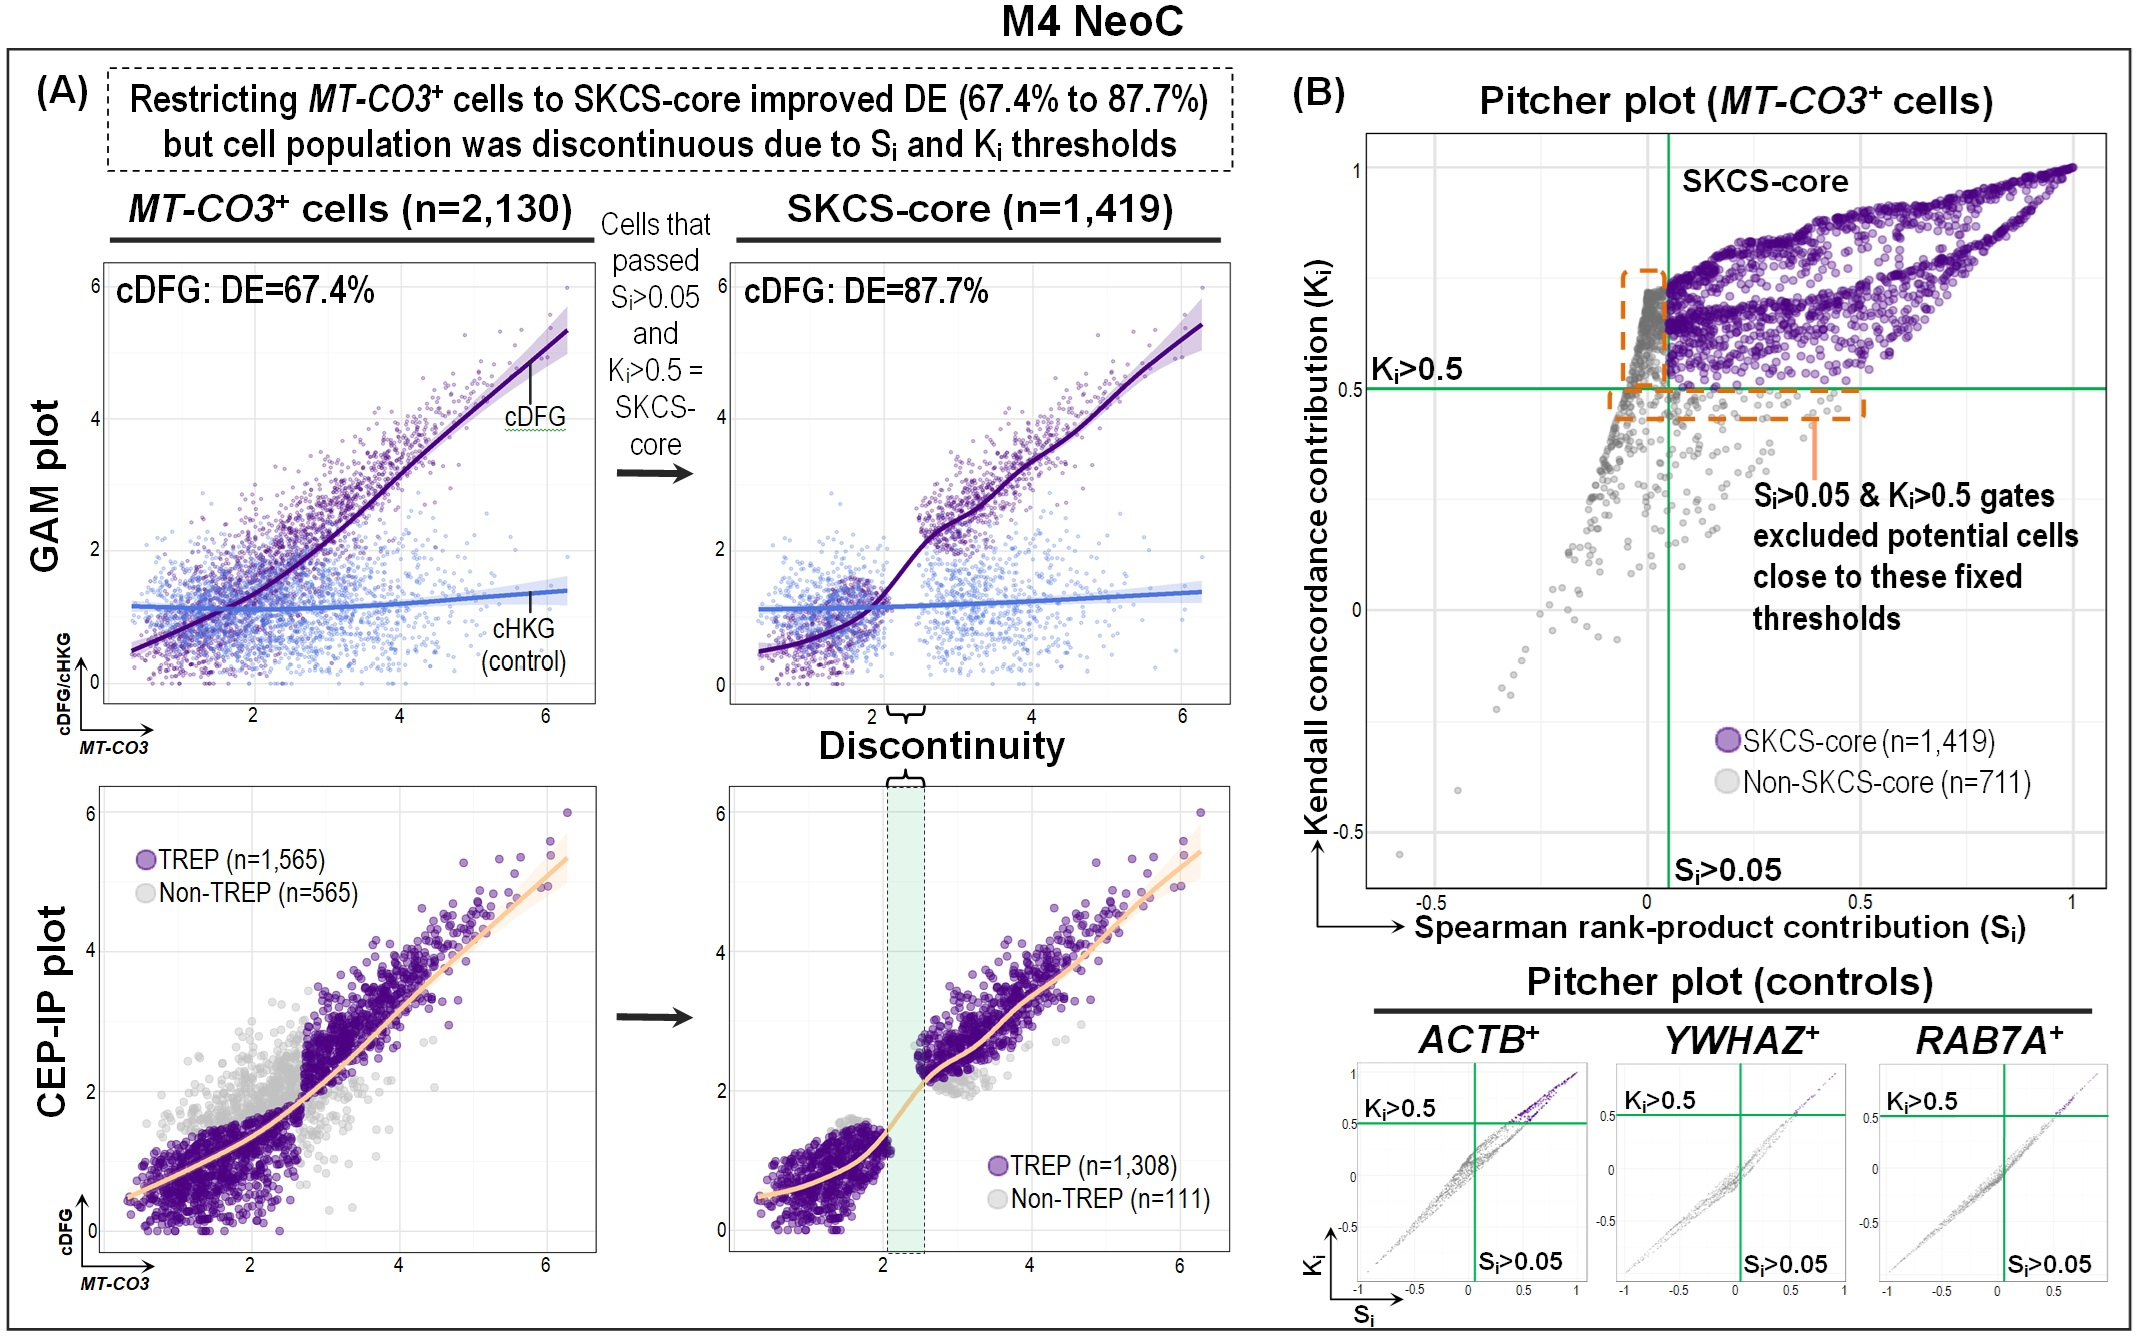
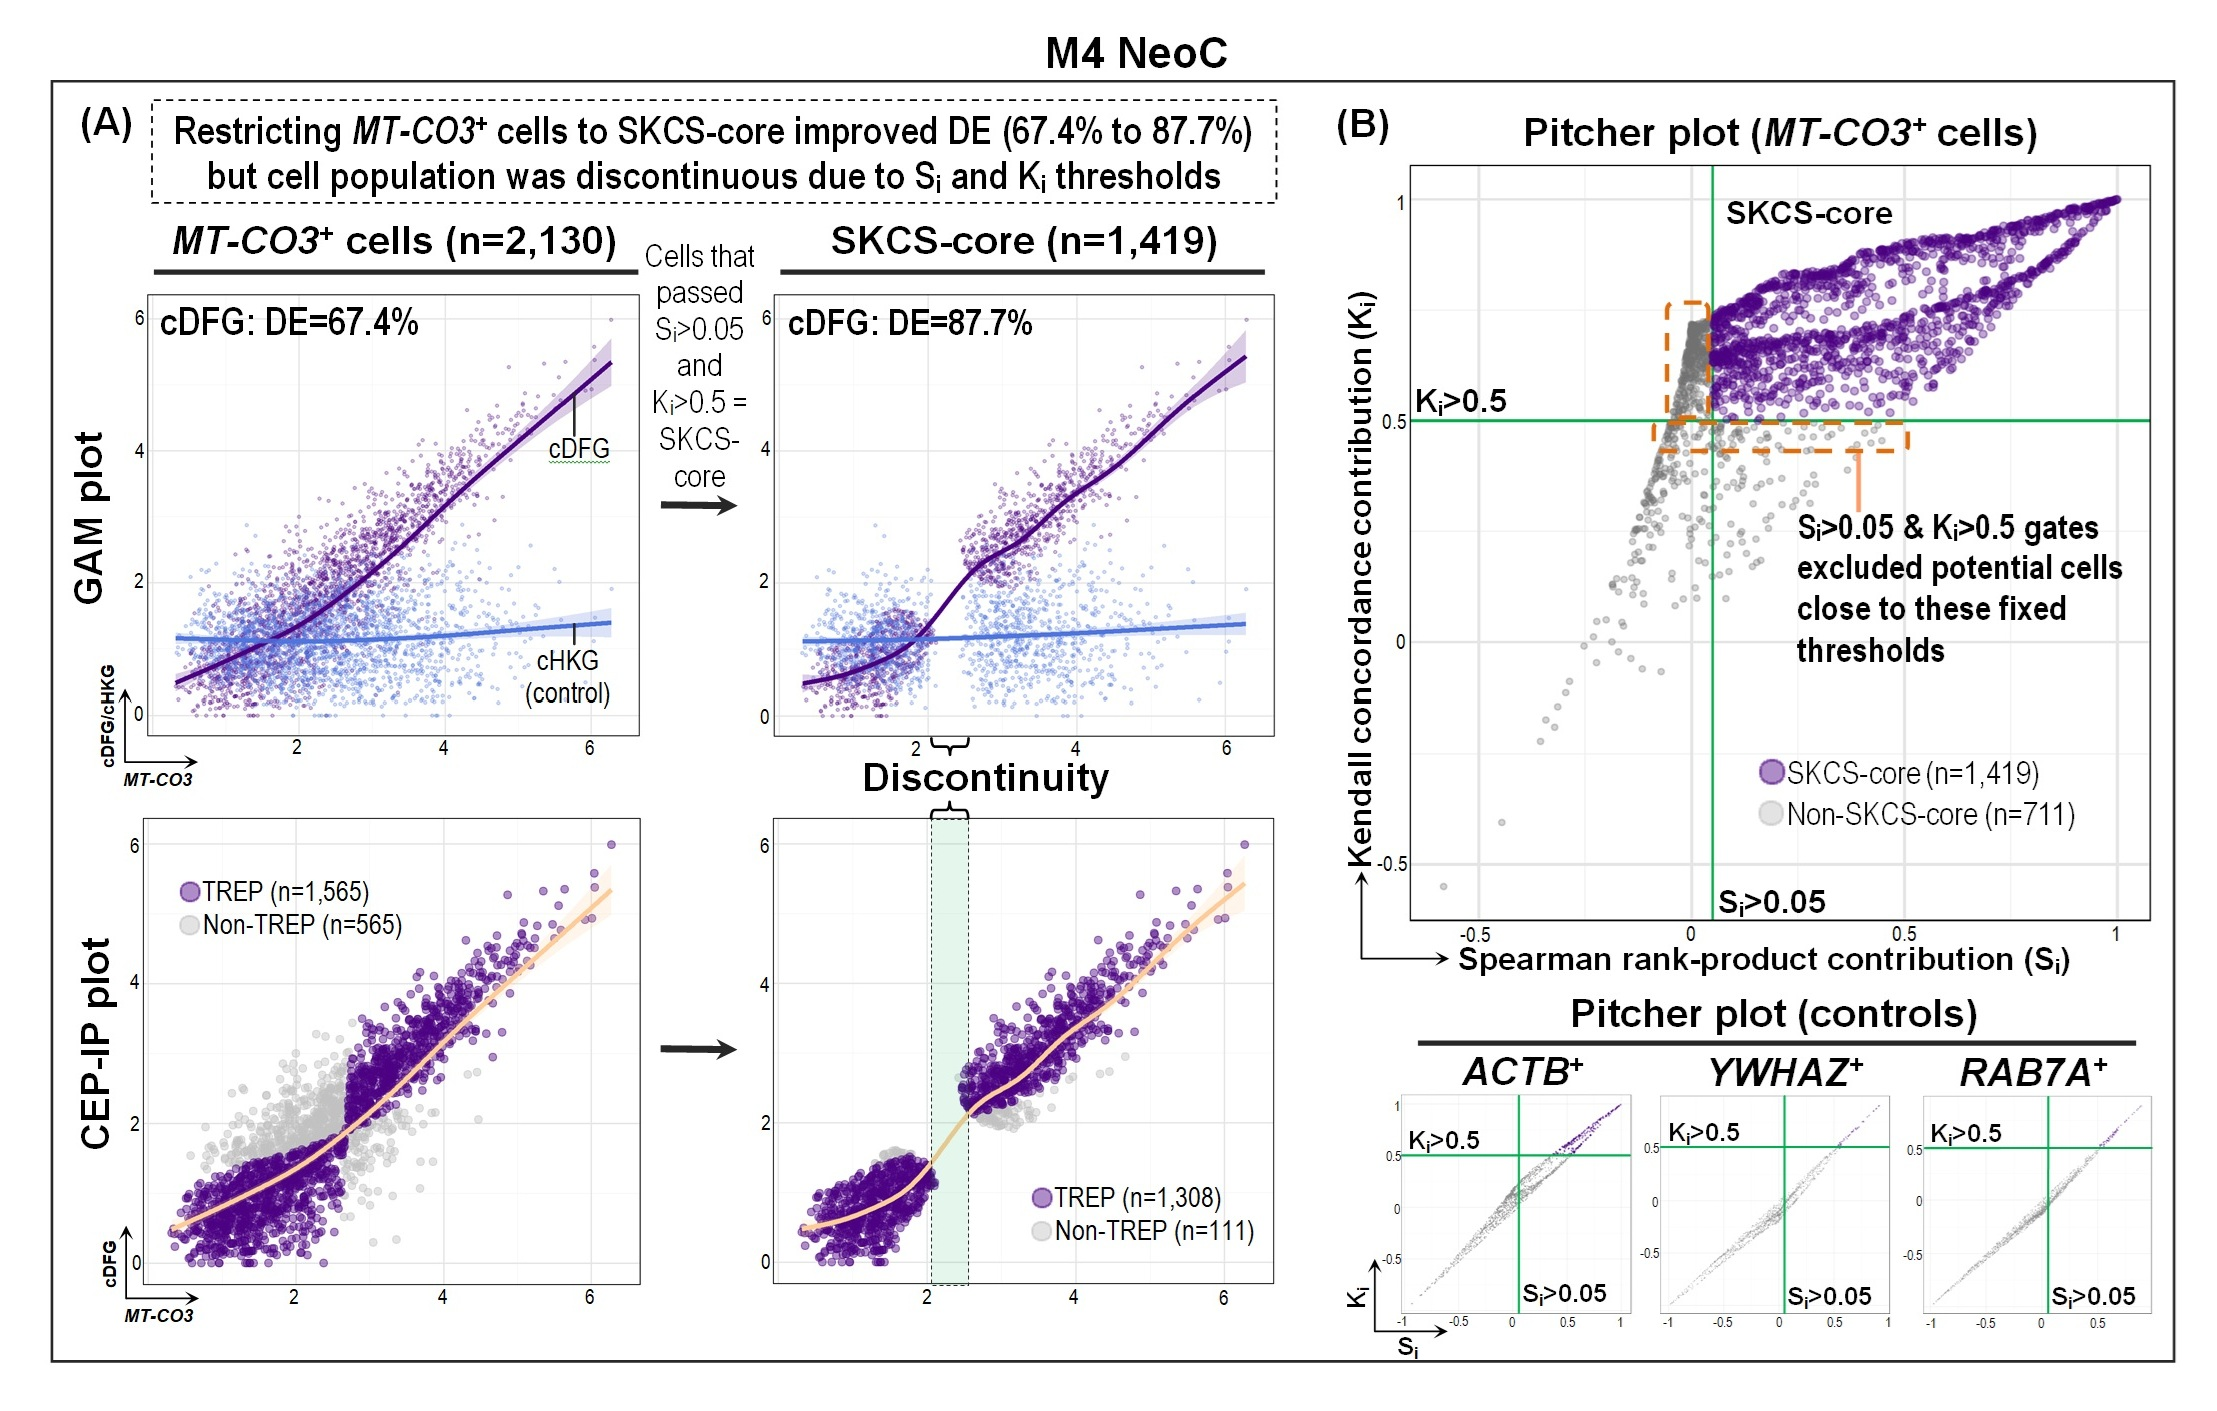
README: title, figure spacing, lists, numbered steps

diff --git a/README.md b/README.md
@@ -1,6 +1,6 @@
 <div align="center">
 
-# CEP-IP/CMRF in SEA-AD Microglia: A Mitochondrial Co-expression Module Linked to Cognition
+# CEP-IP with CMRF in SEA-AD Microglia: A Mitochondrial Co-expression Module Linked to Cognition
 
 ![Project Status](https://img.shields.io/badge/status-active-brightgreen?logo=check&logoColor=white)
 [![Project Page](https://img.shields.io/badge/Code-GitHub-4E81BE?logo=github&logoColor=white)](https://github.com/kahkengwong/CEP-IP_and_CMRF_in_SEA-AD)
@@ -78,23 +78,39 @@ Single-nucleus RNA-seq (snRNA-seq) studies of Alzheimer's disease (AD) routinely
 ## Methods and Key Results
 The five figures below follow the main steps of the analysis, using M4 NeoC as the example where one arm is shown.
 
-<p align="center"><img src="figures/Figure_1_Si_Ki_creates_discontinuity.jpg" width="900" alt="Figure 1. The S<sub>i</sub> and K<sub>i</sub> gates create a discontinuity."></p>
+<p align="center"><img src="figures/Figure_1_Si_Ki_creates_discontinuity.jpg" width="900" alt="Figure 1"></p>
 
 **Figure 1. The S<sub>i</sub> and K<sub>i</sub> gates create a discontinuity.** The S<sub>i</sub> and K<sub>i</sub> gates (S<sub>i</sub> >0.05 and K<sub>i</sub> >0.5) identified the SKCS-core cells and improved the deviance explained (DE; from 67.4% to 87.7% in M4 NeoC), but created a discontinuity along MT-CO3 that is also visible in the pitcher plot (K<sub>i</sub> against S<sub>i</sub>).
 
-<p align="center"><img src="figures/Figure_2_Transform_to_copula_space.jpg" width="900" alt="Figure 2. Transformation into copula space."></p>
+<br>
+<br>
+
+
+<p align="center"><img src="figures/Figure_2_Transform_to_copula_space.jpg" width="900" alt="Figure 2"></p>
 
 **Figure 2. Transformation into copula space.** The expression space (cDFG against MT-CO3) and the score space (K<sub>i</sub> against S<sub>i</sub>) are transformed into copula space by ranking each axis and dividing by n + 1: v against u for the expression values, and v<sub>SK</sub> against u<sub>SK</sub> for the S<sub>i</sub> and K<sub>i</sub> values.
 
-<p align="center"><img src="figures/Figure_3_CMRF_reclaims_cells.jpg" width="900" alt="Figure 3. CMRF reclaims monotone-coherent cells."></p>
+<br>
+<br>
+
+
+<p align="center"><img src="figures/Figure_3_CMRF_reclaims_cells.jpg" width="900" alt="Figure 3"></p>
 
 **Figure 3. CMRF reclaims monotone-coherent cells.** The copula monotone recovery filter (CMRF) reclaimed monotone-coherent cells that the fixed S<sub>i</sub> and K<sub>i</sub> gates had excluded. The SKCS-core cells calibrated the spline, two bands (&delta;<sub>base</sub> and &delta;<sub>adapt</sub>) identified the candidates, and the RSk-fCV gate tested them. Purple diamonds are the Recovered cells.
 
-<p align="center"><img src="figures/Figure_4_Pitcher_plots_QC_of_CMRF.jpg" width="900" alt="Figure 4. Pitcher plots as a quality check of CMRF."></p>
+<br>
+<br>
+
+
+<p align="center"><img src="figures/Figure_4_Pitcher_plots_QC_of_CMRF.jpg" width="900" alt="Figure 4"></p>
 
 **Figure 4. Pitcher plots as a quality check of CMRF.** Pitcher plots in copula space for each arm and region set. The Recovered cells (purple) bridge the post-IP (green) and pre-IP (amber) branches.
 
-<p align="center"><img src="figures/Figure_5_Applications.jpg" width="900" alt="Figure 5. Applications of Module post-IP%."></p>
+<br>
+<br>
+
+
+<p align="center"><img src="figures/Figure_5_Applications.jpg" width="900" alt="Figure 5"></p>
 
 **Figure 5. Applications of Module post-IP%.** Module post-IP% was computed for each arm (A) and used in downstream applications, such as its association with cognition and pathology outcomes in the SEA-AD donors, where it was benchmarked against the competitors of CMRF (B).
 
@@ -104,15 +120,15 @@ The five figures below follow the main steps of the analysis, using M4 NeoC as t
 | Path | Contents |
 |---|---|
 | `scripts/Python/` | The 23 Python scripts: Parts 1 to 8 and the Part 12 extraction step (`Part12_02_Extract.py`). |
-| `scripts/R/` | The R scripts of Parts 9 to 13 and `Fig17_Summary_code.r`; the shared arm table and settings (`CEP_arms.R`, `R_config.R`, `R_config_HKG8.R`); the Part 12 settings (`Part12_01_config.json`, `Part12_Fig19_config.json`) and pre-specified readings (`Part12_Preset_Readings.md`, `Part12_Preset_Readings_Battery5.md`). |
+| `scripts/R/` | <ul><li>The R scripts of Parts 9 to 13 and `Fig17_Summary_code.r`</li><li>The shared arm table and settings: `CEP_arms.R`, `R_config.R`, `R_config_HKG8.R`</li><li>The Part 12 settings: `Part12_01_config.json`, `Part12_Fig19_config.json`</li><li>The pre-specified readings of the Batteries: `Part12_Preset_Readings.md`, `Part12_Preset_Readings_Battery5.md`</li></ul> |
 | `Containerfile` | Recipe for the container image (R 4.6.1, Python 3.13.14, all packages). Works with Podman or Docker. |
 | `seaad-setup.sh` | Run once inside the container: copies the settings into the data folder and checks the inputs. |
 | `README_container.md` | Container build, inputs, and the full run order. |
 | `renv.lock` | Exact R package versions (R 4.6.1, Bioconductor 3.23; 280 packages). |
 | `requirements-python.txt` | Exact Python package versions (Python 3.13.14). |
-| `verification/` | `run_rest.sh` and `run_python.sh` (run the R and the Python scripts in order from a named step), `compare_rerun.py`, `compare_python.py` and `compare_gamdata.py`, and the comparisons of the container reruns with the original results (`compare_all_*` for R; `compare_python_*` and `compare_gamdata_log.txt` for Python). |
+| `verification/` | <ul><li>`run_rest.sh` and `run_python.sh`: run the R and the Python scripts in order from a named step</li><li>`compare_rerun.py`, `compare_python.py`, and `compare_gamdata.py`: compare a rerun with the original results</li><li>The comparisons of the container reruns with the original results: `compare_all_*` for R; `compare_python_*` and `compare_gamdata_log.txt` for Python</li></ul> |
 | `figures/` | Figures 1 to 5 of the Methods and Key Results section. |
-| `logs/` | Console logs of the container reruns (`container_rerun/`, R Part 9 onward and the Part 12 Python step; `container_rerun_python/`, Python Parts 1 to 8), logs of the original runs from Part 9 onward (`original_R/`), and logs of the original Python Parts 1 to 8 (`original_python/`). `logs/README.md` describes each folder and maps the Python logs to their scripts. |
+| `logs/` | <ul><li>`container_rerun/`: console logs of the container rerun of R Part 9 onward and the Part 12 Python step</li><li>`container_rerun_python/`: console logs of the container rerun of Python Parts 1 to 8</li><li>`original_R/`: logs of the original runs from Part 9 onward</li><li>`original_python/`: logs of the original runs of Python Parts 1 to 8</li><li>`logs/README.md` describes each folder and maps the Python logs to their scripts</li></ul> |
 
 ---
 
@@ -190,7 +206,7 @@ The analysis runs in a container that holds R 4.6.1, Python 3.13.14 and every pa
 ### 1. Get the data
 | Source | Files | Needed for |
 |---|---|---|
-| [HuggingFace](https://huggingface.co/datasets/kahkengwong/CEP-IP_and_CMRF_in_SEA-AD) | `R_export_CP10K/` (Part 8 export of the four arms, about 14 GB), the Part 2 donor tables (`NeoC_S5b_donor_clinical.csv`, `NonNeoC_S5b_donor_clinical.csv`), and `Part7_DecontX/decontX_contamination_all.csv` | R Parts 9 to 13 |
+| [HuggingFace](https://huggingface.co/datasets/kahkengwong/CEP-IP_and_CMRF_in_SEA-AD) | <ul><li>`R_export_CP10K/`: Part 8 export of the four arms, about 14 GB</li><li>The Part 2 donor tables: `NeoC_S5b_donor_clinical.csv`, `NonNeoC_S5b_donor_clinical.csv`</li><li>`Part7_DecontX/decontX_contamination_all.csv`</li></ul> | R Parts 9 to 13 |
 | [SEA-AD portal](https://brain-map.org/consortia/sea-ad/our-data) | Immune h5ad (2026-06-22 release), neuropathology and CPS workbooks | Python Parts 1 to 8, Part 12 |
 | [GEO GSE148822](https://www.ncbi.nlm.nih.gov/geo/query/acc.cgi?acc=GSE148822) | Gerrits deposit, placed in `Gerrits/` with the series matrix in `Gerrits/Metadata/` | Part 12 (Battery 1) |
 | [Zenodo](https://zenodo.org/records/23445742) | Supplementary Tables | The Part 10g follow-up and `Fig17_Summary_code.r` |
@@ -198,29 +214,35 @@ The analysis runs in a container that holds R 4.6.1, Python 3.13.14 and every pa
 Place them in one folder (the data folder), keeping the folder names above.
 
 ### 2. Build the container
-Download this repository (green "<> Code" button, then "Download ZIP") and extract it. From the extracted folder:
+i) Download this repository (green "<> Code" button, then "Download ZIP") and extract it.
+
+ii) From the extracted folder, build the image:
 ```bash
 podman build -t seaad-cepip -f Containerfile .
 ```
 The first build takes about one to two hours, mostly to compile the Bioconductor packages and monocle3. Docker accepts the same commands with `docker` in place of `podman`.
 
-Instead of building it, the image can be loaded from the archived copy on Zenodo (`seaad-cepip_image.tar.gz`, 1.7 GB, https://doi.org/10.5281/zenodo.23446228), which holds the same software and scripts:
+iii) Alternatively, instead of building it, the image can be loaded from the archived copy on Zenodo (`seaad-cepip_image.tar.gz`, 1.7 GB, https://doi.org/10.5281/zenodo.23446228), which holds the same software and scripts:
 ```bash
 podman load -i seaad-cepip_image.tar.gz
 ```
 This gives the image `localhost/seaad-cepip`; Docker accepts `docker load -i` in the same way.
 
 ### 3. Start the container and check the inputs
+i) Start the container with the data folder mounted at `/data`:
 ```bash
 podman run --rm -it --shm-size=16g -v /path/to/data_folder:/data:Z seaad-cepip
-seaad-setup
 ```
 `--shm-size=16g` gives the container enough shared memory for Part 7 (DecontX), whose worker processes share the count matrix. Without it, Part 7 stops with a bus error.
 
+ii) Inside the container, run once:
+```bash
+seaad-setup
+```
 `seaad-setup` copies the settings files and the Part 12 scripts into the data folder and lists every input as found or missing.
 
 ### 4. Run the scripts
-From `/data`, in the order given in `README_container.md`. For example:
+i) Run each script from `/data`, in the order given in `README_container.md`. For example:
 ```bash
 Rscript -e 'source("/opt/seaad/R/Part9_CP10K_QC_GAM_code.r")'
 python Part12_rerun/Part12_02_Extract.py
@@ -228,7 +250,10 @@ Rscript -e 'source("Part12_rerun/Part12_04_Labels.r")'
 ```
 Each script writes its outputs and a log in its own folder.
 
-`verification/run_rest.sh` runs the scripts from a given one to `Fig17_Summary_code.r` in order, saves each console log in `console_logs/`, and then runs the comparison. It was used for the reproduction check below; the comparison step needs the original results mounted at `/win`. To use it, copy `run_rest.sh` and `compare_rerun.py` into the data folder and run, for example, `bash /data/run_rest.sh Part10h_CP10K_Prognosis_code`. `verification/run_python.sh` does the same for Python Parts 1 to 8 (Part 8 once per arm) and then runs `compare_python.py` against the original results mounted at `/ref`.
+ii) Alternatively, run a series of scripts with the run scripts in `verification/`, which were used for the reproduction check below:
+- `run_rest.sh` runs the R scripts from a given one to `Fig17_Summary_code.r` in order, saves each console log in `console_logs/`, and then runs the comparison with the original results mounted at `/win`.
+- `run_python.sh` does the same for Python Parts 1 to 8 (Part 8 once per arm), and then runs `compare_python.py` with the original results mounted at `/ref`.
+- To use them, copy the run script and its comparison script into the data folder and run, for example, `bash /data/run_rest.sh Part10h_CP10K_Prognosis_code`.
 
 ### Without the container (optional)
 - **R:** run `renv::restore()` in the repository folder to install the package versions in `renv.lock`. renv uses an isolated library and does not change the existing R setup.
@@ -245,8 +270,8 @@ The original analysis ran R on Windows 11 and Python on Fedora 44. The whole pip
 - **Result, Python Parts 1 to 8:**
   - All 25 steps ran to completion (Part 8 once per arm), in about three hours.
   - The 54 count matrices and cell and gene lists exported by Part 8 (the four arms and the full data of both region sets) are identical byte for byte to the original export used by the R analyses.
-  - Of the 9,262 tables found in both runs, 9,211 are the same. A further 40 Part 8 `gam_data` tables are the same in every shared column; the original files hold 1 or 10 more gene columns, added later by R Part 9.
-  - Nine Part 5 differential expression tables differ in one to three genes each: the paired p-values of TAOK3, LINC02391, and NBAS changed slightly, with the adjusted p-values of the genes next to them in rank, and the log2FC of five genes changed in the fourth decimal. No gene crosses the 0.05 cutoff.
+  - Of the 9,262 tables found in both runs, 9,211 are the same. A further 40 Part 8 `gam_data` tables match in every shared column; the original files hold 1 or 10 more gene columns, added later by R Part 9.
+  - Nine Part 5 differential expression tables differ in one to three genes each: the paired p-values of *TAOK3*, *LINC02391*, and *NBAS* shifted slightly, and the log2FC of five genes changed in the fourth decimal. No gene crosses the 0.05 cutoff.
   - Two Part 8 record files differ only in how a logical value is written (`False` against `FALSE`).
   - The reference was the Windows copy of the original results, which the R analyses used. Tables found only there come from scripts that are not part of this deposit.
 
@@ -268,7 +293,9 @@ The original analysis ran R on Windows 11 and Python on Fedora 44. The whole pip
   - the settings version recorded in the Part 12 tables;
   - dates, times, and folder paths.
 
-The full comparison is in `verification/compare_all_log.txt` (summary) and `verification/compare_all_detail.csv` (one row per table) for the R parts, and in `verification/compare_python_tables_log.txt`, `compare_python_tables_detail.csv`, `compare_python_matrices_log.txt` and `compare_gamdata_log.txt` for the Python parts.
+The full comparisons are in `verification/`:
+- **R parts:** `compare_all_log.txt` (summary) and `compare_all_detail.csv` (one row per table).
+- **Python parts:** `compare_python_tables_log.txt` and `compare_python_tables_detail.csv` (tables), `compare_python_matrices_log.txt` (count matrices and cell and gene lists), and `compare_gamdata_log.txt` (the Part 8 `gam_data` tables).
 
 ---
 
